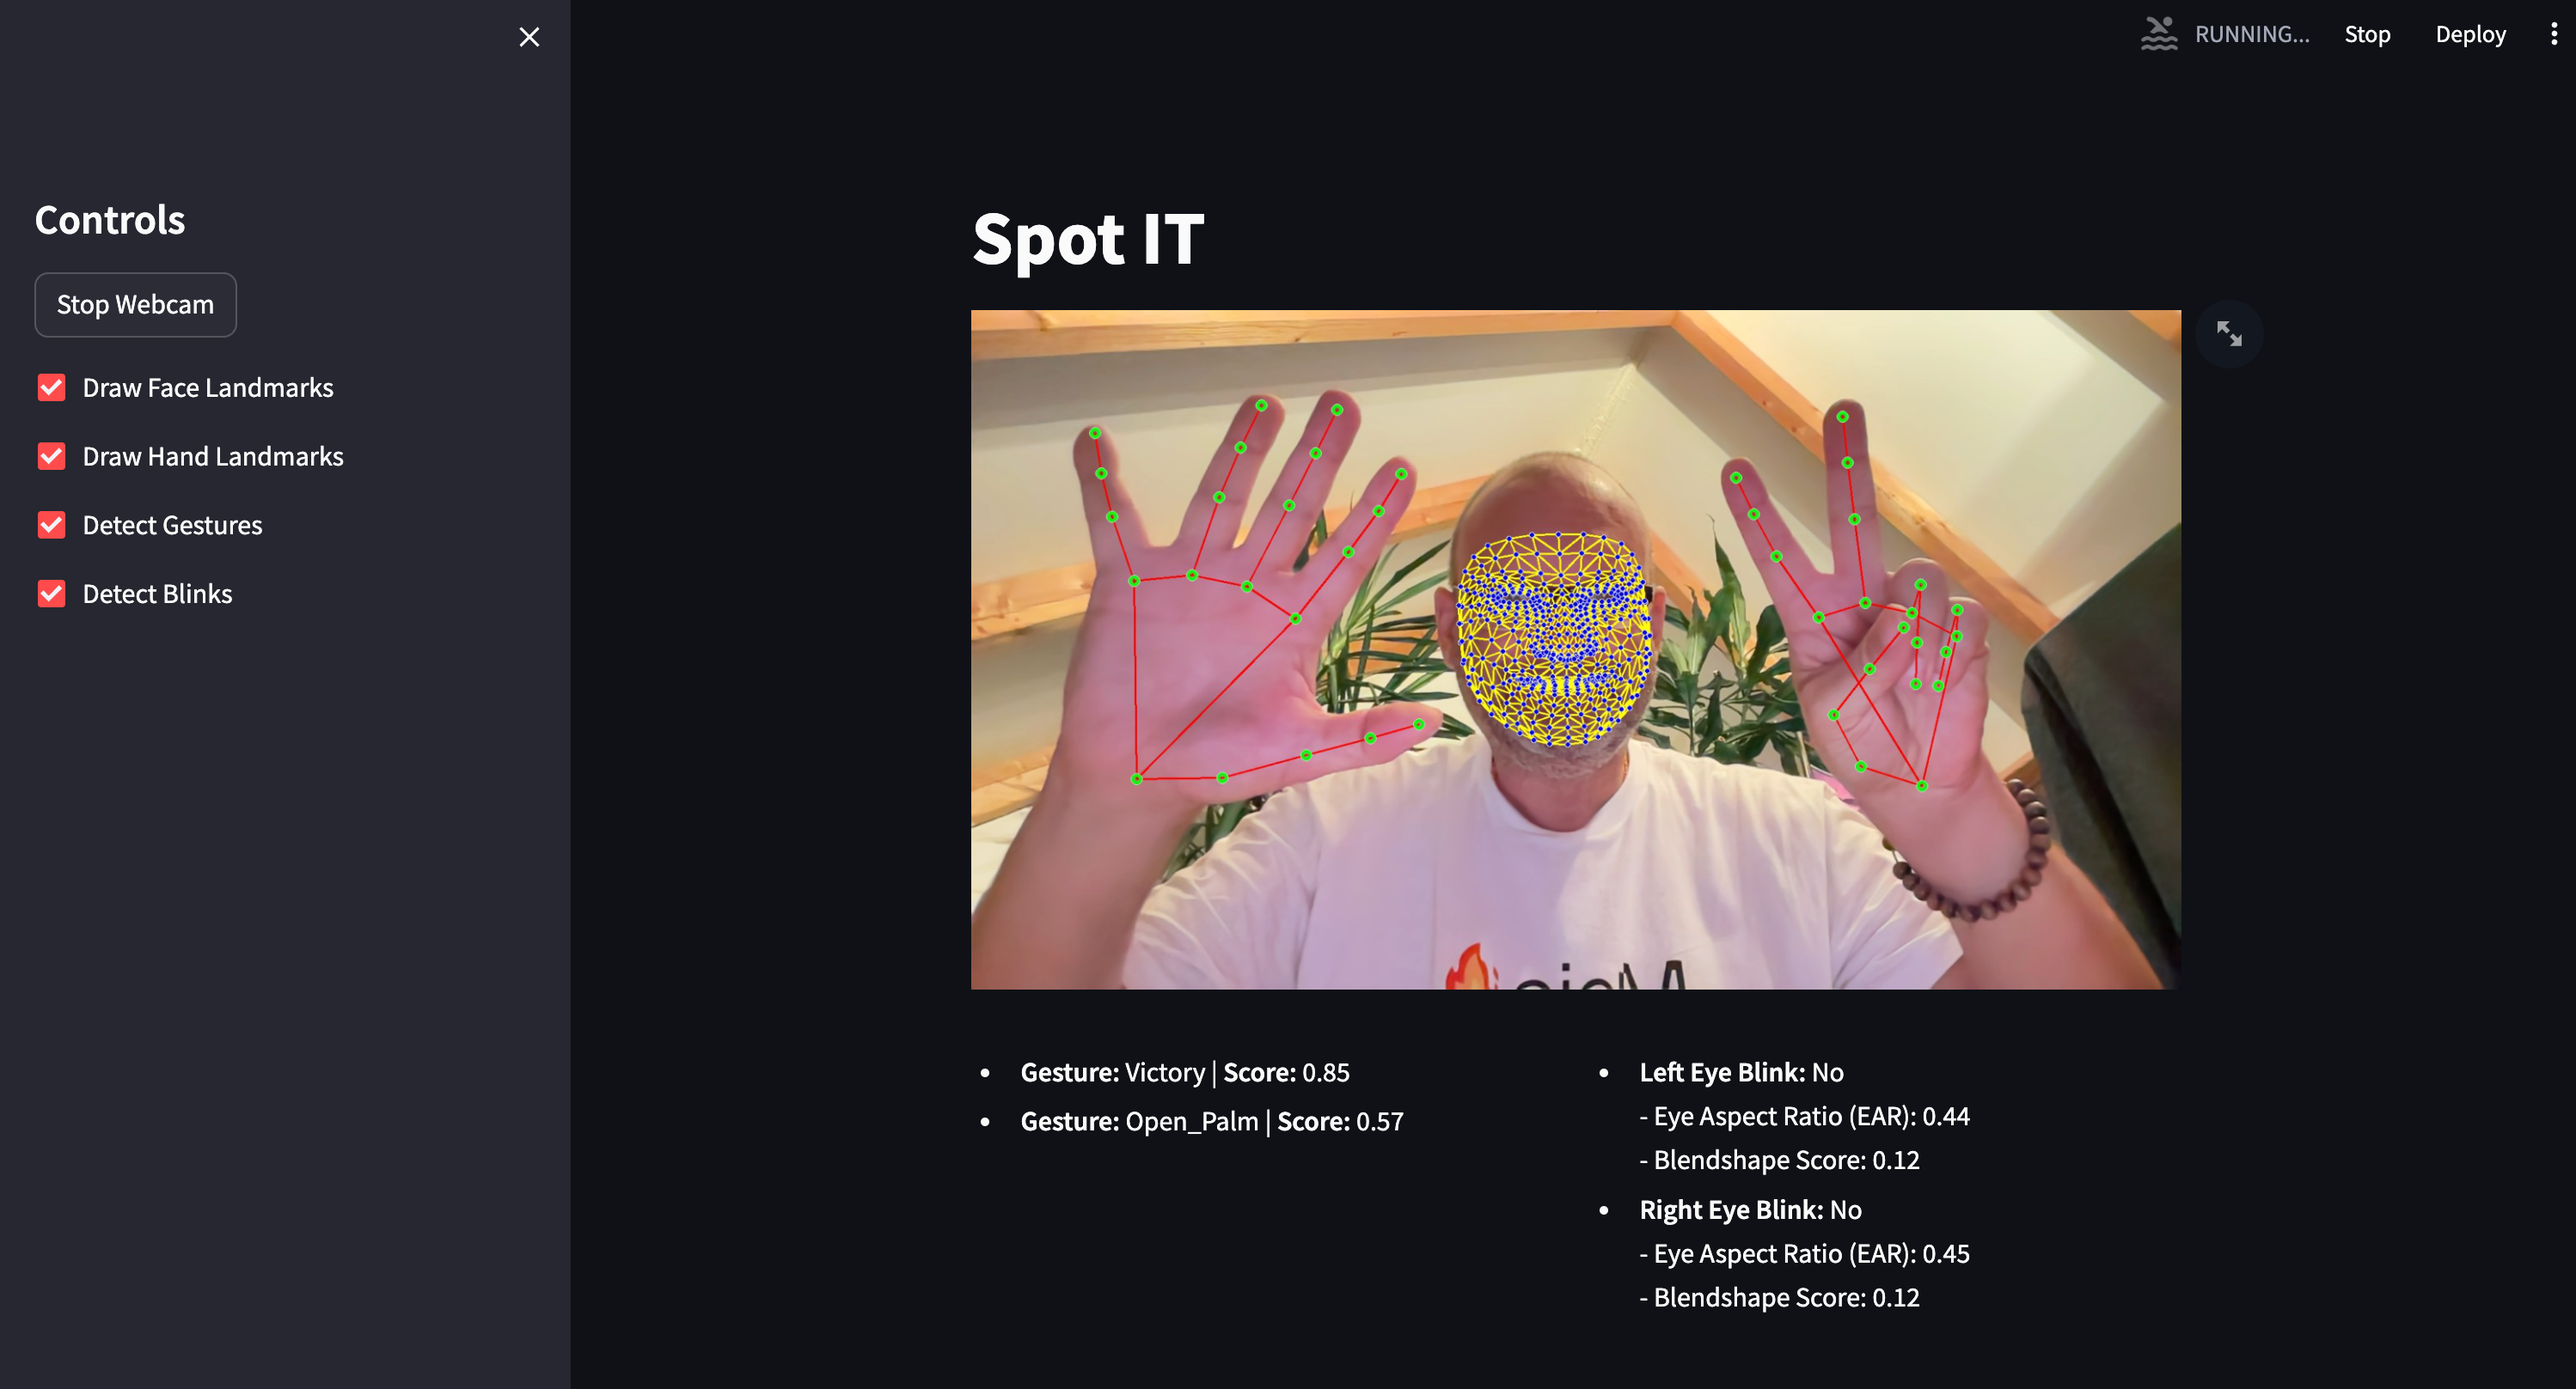
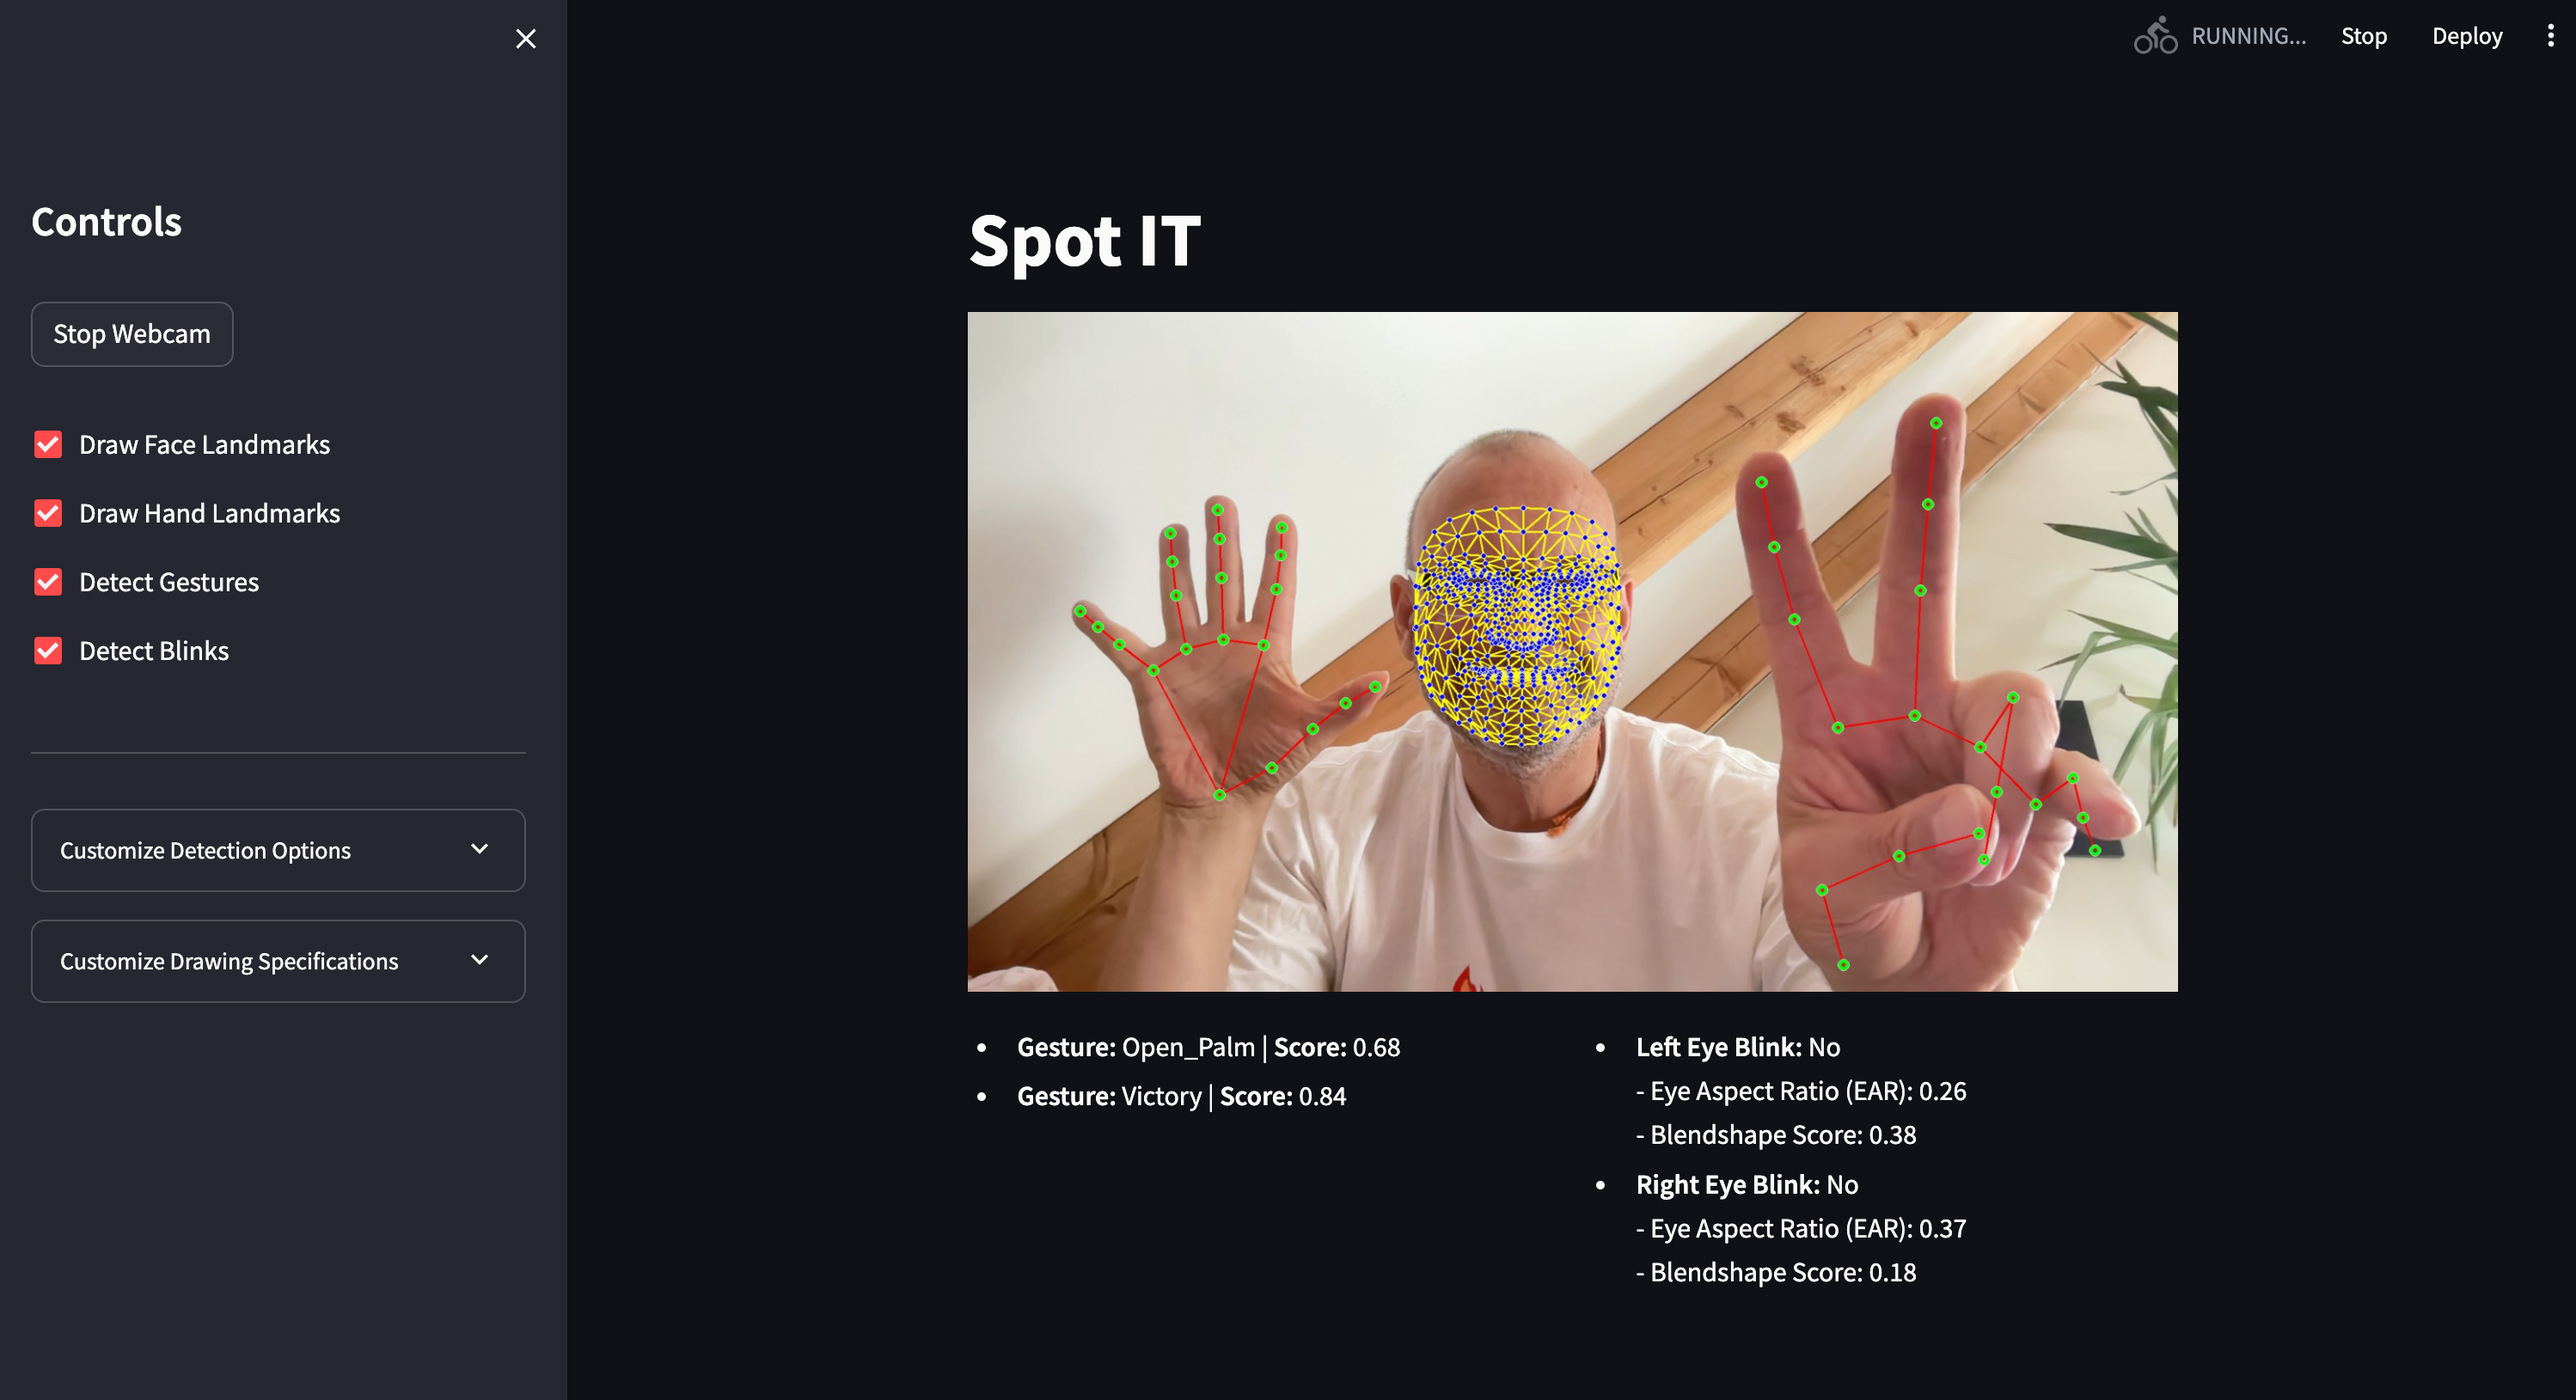
screenshot with sidebar options

diff --git a/streamlit_app.py b/streamlit_app.py
@@ -35,22 +35,29 @@ st.title("Spot IT")
 st.sidebar.title("Controls")
 
 def toggle_webcam():
-    st.session_state.run_webcam = not st.session_state.run_webcam
     if st.session_state.run_webcam:
-        st.session_state.cap = cv2.VideoCapture(0)
-    else:
-        if st.session_state.cap:
+        st.session_state.run_webcam = False
+        if st.session_state.cap is not None:
             st.session_state.cap.release()
             st.session_state.cap = None
             cv2.destroyAllWindows()
+    else:
+        st.session_state.run_webcam = True
+        st.session_state.cap = cv2.VideoCapture(0)
+        if not st.session_state.cap.isOpened():
+            st.session_state.run_webcam = False
+            st.session_state.cap = None
+            st.error("Failed to access webcam")
 
 # Create the buttons and checkboxes
+st.sidebar.text("")
 toggle_webcam_button = st.sidebar.button("Stop Webcam" if st.session_state.run_webcam else "Start Webcam", on_click=toggle_webcam)
+st.sidebar.text("")
 draw_face_landmarks_checkbox = st.sidebar.checkbox('Draw Face Landmarks')
 draw_hand_landmarks_checkbox = st.sidebar.checkbox('Draw Hand Landmarks')
 detect_gestures_checkbox = st.sidebar.checkbox('Detect Gestures')
 detect_blinks_checkbox = st.sidebar.checkbox('Detect Blinks')
-
+st.sidebar.markdown("***")
 # Add an expander for customizable options
 with st.sidebar.expander("Customize Detection Options"):
     st.session_state.max_num_faces = st.radio("Max Number of Faces", [1, 2], index=0)
